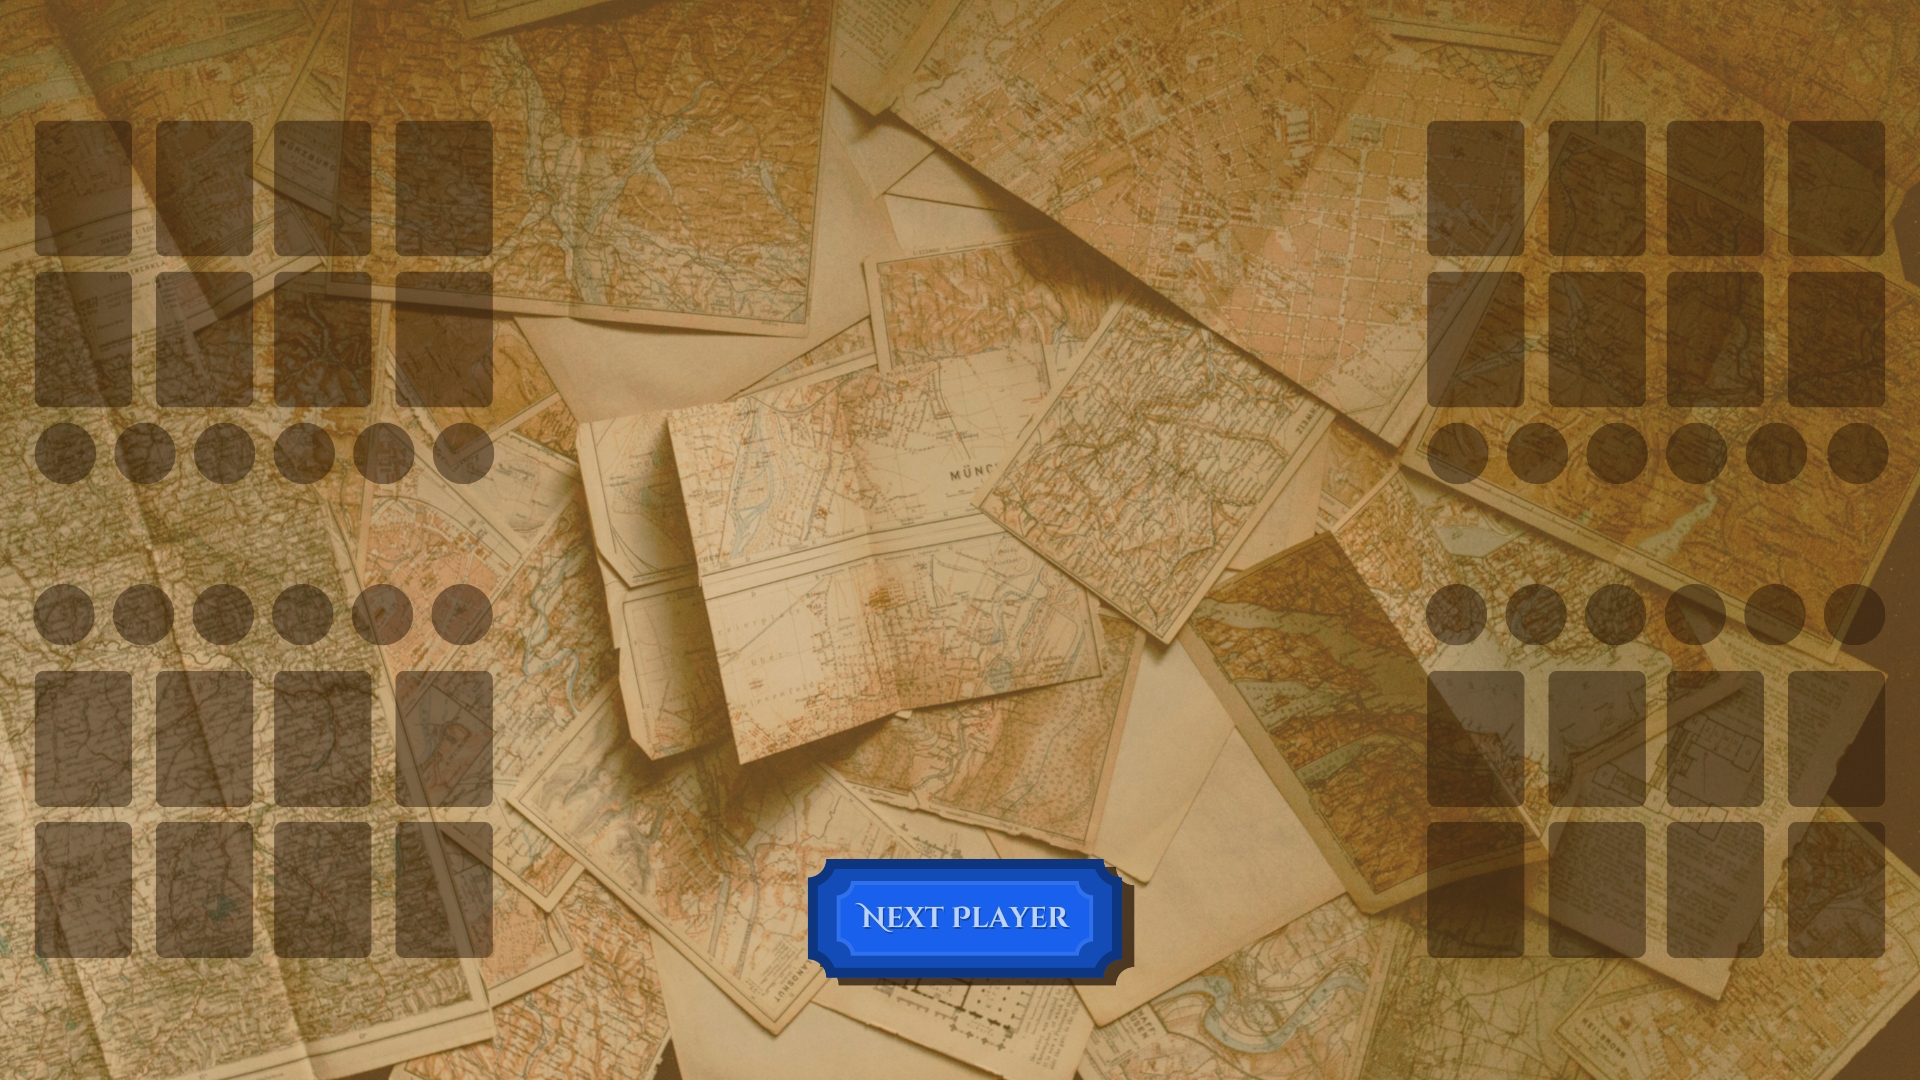
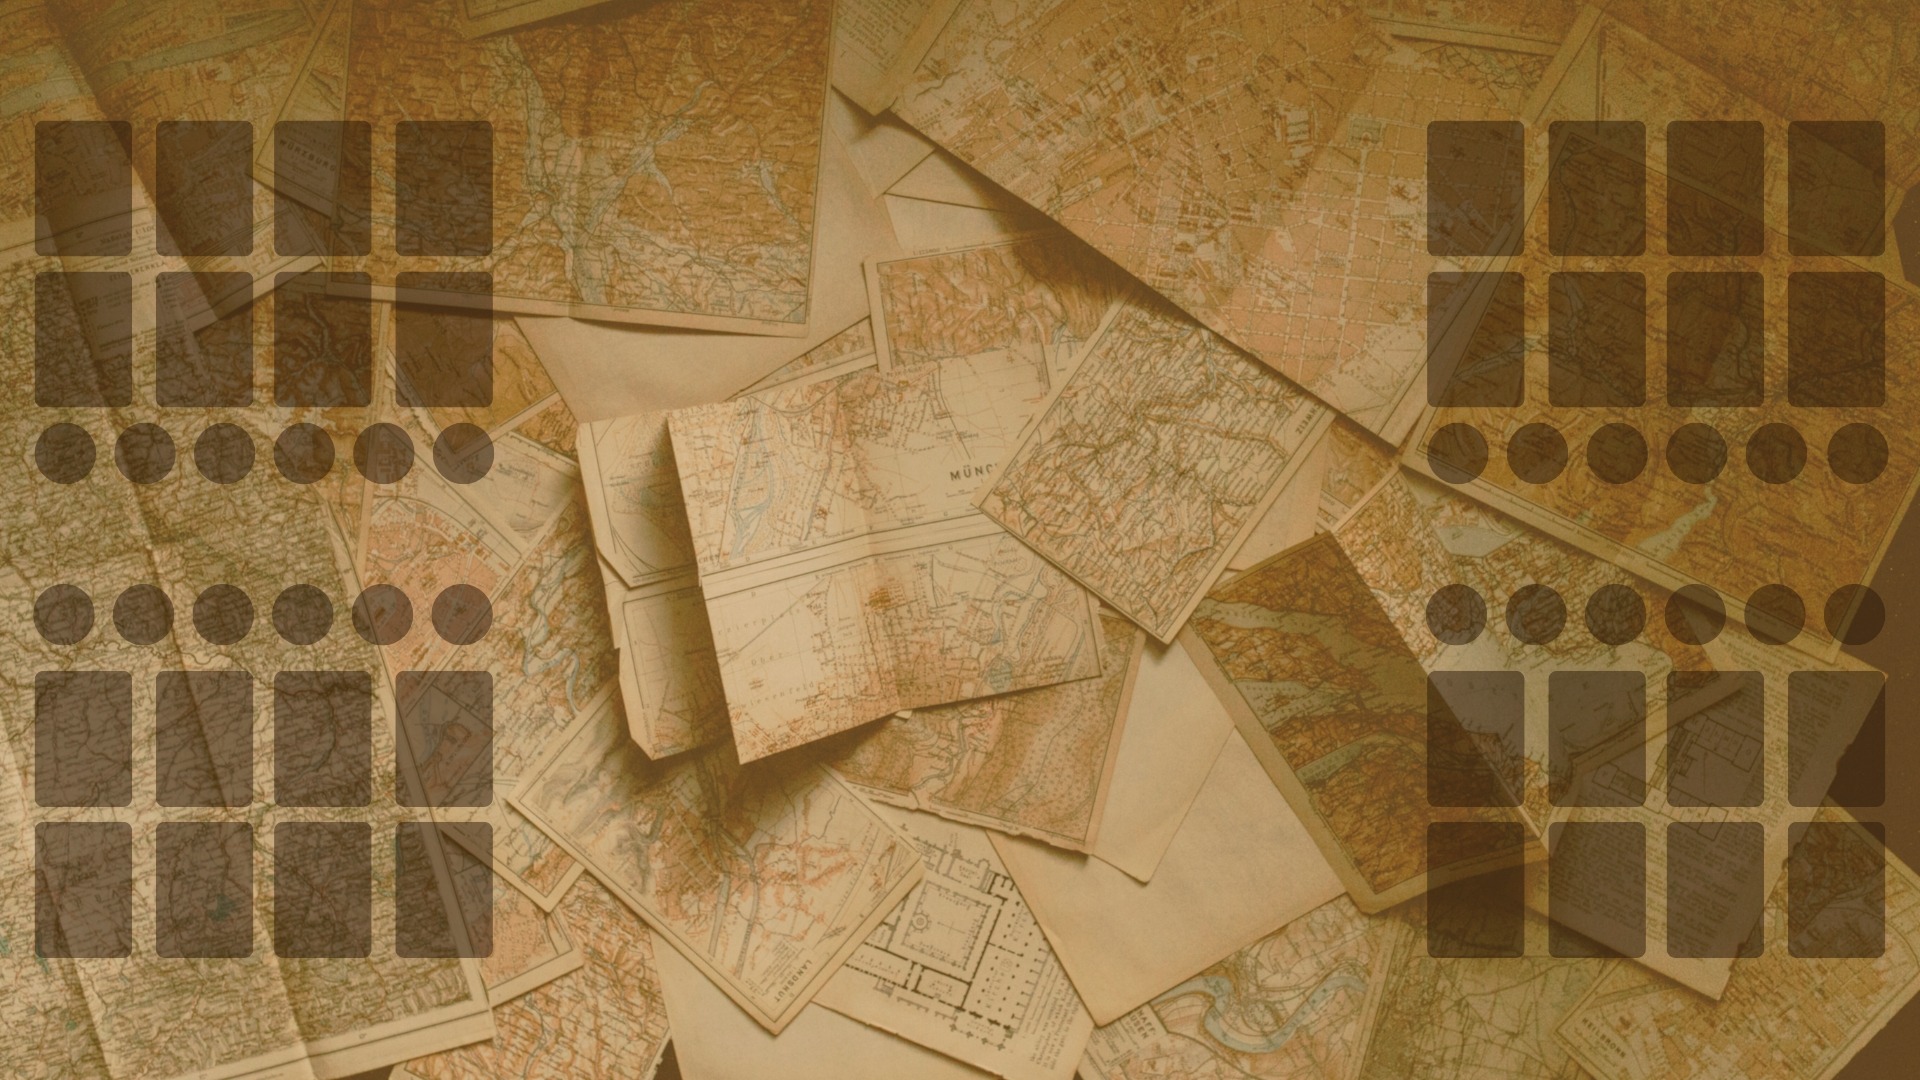
canges
added indicator when buying tokens and placeholders for new buttons

Changed region(s): [[0.4062, 0.7944, 0.5938, 0.9167]]

diff --git a/src/Splendorpanel.java b/src/Splendorpanel.java
@@ -21,6 +21,8 @@ public class Splendorpanel extends JPanel implements MouseListener{
     private int tokenWidth;
     private int tokenHeight;
     private int fontSize;
+    private int endButtonWidth;
+    private int endButtonHeight;
     //private String tok1, tok2, tok3; //tokens players click on?
     private HashMap<String,Integer> heldTokens; //three tokens held by current player when interacted with
     private Card heldCard;
@@ -32,6 +34,7 @@ public class Splendorpanel extends JPanel implements MouseListener{
     private String[] colors;
     private ArrayList <BufferedImage> tokenImgs;
     private boolean isHoldingCard;
+    private boolean isIllegal;
     private boolean showAllCards;
     private boolean showReservedCards;
     private ArrayList <Card> temp;
@@ -54,7 +57,7 @@ public class Splendorpanel extends JPanel implements MouseListener{
         showReservedCards = false;
         try {
             //bkg = ImageIO.read(new File("bkg.png"));
-            bkg = ImageIO.read(Splendorpanel.class.getResource("/images/gamebkg.jpg"));
+            bkg = ImageIO.read(Splendorpanel.class.getResource("/Splendor2024/images/gamebkg.jpg"));
             endBkg = ImageIO.read(Splendorpanel.class.getResource("/images/gameEndButtonScreen.jpg"));
             popUp = ImageIO.read(Splendorpanel.class.getResource("/images/shelvedCardsPopUp.png"));
             reservedPopUp = ImageIO.read(Splendorpanel.class.getResource("/images/reservedPopUp.png"));
@@ -97,12 +100,14 @@ public class Splendorpanel extends JPanel implements MouseListener{
         tokenWidth = width / 32;
         tokenHeight = height / 16;
         fontSize = width / 130 + height / 65;
+        endButtonHeight = height / 5 - height / 10;
+        endButtonWidth = width / 10;
 
         System.out.println(width + ", " + height + " this is width and height");
-        if(!logic.canGetTokens(heldTokens)){ //if more than 10 tokens, if more than 3 tokens drawn, or if more than two of the same color
-            heldTokens.clear(); //clear temporary hand
-            drawError(g); //draw error and make players remove or redraw tokens
-        }
+        //if(!logic.canGetTokens(heldTokens)){ //if more than 10 tokens, if more than 3 tokens drawn, or if more than two of the same color
+           // heldTokens.clear(); //clear temporary hand
+           ///drawError(g); //draw error and make players remove or redraw tokens
+      //  }
 
         //need to test locations
         drawSetUp(g); //background and text
@@ -116,7 +121,7 @@ public class Splendorpanel extends JPanel implements MouseListener{
             int x = 384;
             int y = 177;
             g.drawImage(popUp, 341, 139, 1239, 751, null);
-            for(int i = 0; i<temp.size(); i++){
+           for(int i = 0; i<temp.size(); i++){
                 g.drawImage(temp.get(i).getCardFront(), x, y, 206, 313, null);
                 x+=237;
                 if(i==5){
@@ -135,7 +140,15 @@ public class Splendorpanel extends JPanel implements MouseListener{
             }
         }
 
-        g.drawString("A", width / 2 , height - height / 10 );
+        g.drawRect((width / 2 - width / 20), (height - height / 6) , endButtonWidth, endButtonHeight);
+        g.fillRect((width / 2 - width / 20), (height - height / 6) , endButtonWidth, endButtonHeight);
+
+        if(isHoldingCard){
+            g.setColor(new Color(255, 255, 255));
+            g.drawRect((width / 2 + width / 15 ), (height - height / 6) , endButtonWidth, endButtonHeight);
+            g.fillRect((width / 2 + width / 15 ), (height - height / 6) , endButtonWidth, endButtonHeight);
+            g.setColor(new Color(0,0,0));
+        }
         if(isHoldingCard)
             g.drawString("holding card!",width / 2 + width / 3, height / 4);
         if(logic.isItLastTurn())
@@ -216,6 +229,10 @@ public class Splendorpanel extends JPanel implements MouseListener{
                 g.drawImage(tokenImgs.get(i), width / 2 + width / 7 + width / 150, y, tokenWidth, tokenHeight, null);
                 g.setFont(new Font("Times New Roman", Font.PLAIN, fontSize)); 
                 g.drawString("" + logic.getTokens().get(colors[i]), width / 2 + width / 6 - width / 150, y); //number of tokens left
+
+                if(heldTokens.containsKey(colors[i])){
+                    g.drawString("" + heldTokens.get(colors[i]), width / 2 + width / 5 - width / 100, y + y/ 100); //tokens selected
+                }
             }
             y+=height / 12;
         }
@@ -344,14 +361,18 @@ public class Splendorpanel extends JPanel implements MouseListener{
             if(mouseX>= tokensX && mouseX<= tokensX + d && mouseY>= tokensY && mouseY<= tokensY+d ){ //clicking each token
                 if(heldTokens.containsKey(colors[i])){
                     heldTokens.replace(colors[i], heldTokens.get(colors[i]), heldTokens.get(colors[i]) +1 );
+                    System.out.println("TOKEN HIT!");
+                    repaint();
                 } else {
                     heldTokens.put(colors[i], 1);
+                    System.out.println("TOKEN HIT!");
+                    repaint();
                 }
             }
             tokensY += height / 12;
         }
 
-        //if you Click a card in the token matrix
+        //if you Click a card in the card matrix
         for(int i = 0; i<3; i++){ 
             for(int j = 0; j<4; j++){
                 
@@ -366,20 +387,9 @@ public class Splendorpanel extends JPanel implements MouseListener{
             cardY+= height / 7 + height / 150; 
         }
 
-        if(logic.showEndButton() && mouseX >= 587 && mouseX <= 914 && mouseY >= 867 && mouseY <= 993){ //switch player button on end button screen //!!!!!!!!!NOT CENTERED YET!!!!!!!!!!
-            System.out.println("hit switch player button");
-            logic.switchPlayer();
-        }
-
-        if(logic.showEndButton() && mouseX >= 808 && mouseX <= 1134 && mouseY >= 859 && mouseY <= 985){ //switch player button on normal screen //!!!!!!!!!NOT CENTERED YET!!!!!!!!!!
-            System.out.println("hit switch player button");
-            logic.switchPlayer();
-        }
-
         //logic.endTurn();
 
-        //dont know where the end buttone cords are for now so just assume that this is the end button, this handels everyhting that will happen when the endButton is pressed
-        if( /*logic.showEndButton() && */mouseX >= (width / 2) - 100 && mouseX <= (width / 2) + 100 && mouseY >= (height - height / 10) - 50 && mouseY <= (height - height / 10) + 50){ //only allows to click endbutton if it is displayed
+        if( /*logic.showEndButton() && */mouseX >= (width / 2 - width / 20) && mouseX <= (width / 2 - width / 20) + endButtonWidth && mouseY >= (height - height / 6)  && mouseY <= (height - height / 6) + endButtonHeight){ //only allows to click endbutton if it is displayed
            System.out.println("hit endbutton");
            
            //if they have tokens
@@ -406,11 +416,16 @@ public class Splendorpanel extends JPanel implements MouseListener{
            isHoldingCard = false;
            heldCard = null;
            heldTokens = new HashMap<String, Integer>();
-           logic.endTurn();
+           //logic.endTurn();
            repaint();
 
            System.out.println("nothing done, skipping turn");
         }
+
+        if(isHoldingCard && mouseX >= (width / 2 + width / 15) && mouseX <= (width / 2 + width / 15) + endButtonWidth && mouseY >= (height - height / 6)  && mouseY <= (height - height / 6) + endButtonHeight){
+            //ADD RESERVING SYSTEM HERRE
+        }
+
     }
 
     @Override

diff --git a/src/Logic.java b/src/Logic.java
@@ -67,8 +67,6 @@ public class Logic {
         } else{
             currPlayer = 1;
         }
-        
-
     }
 
     //returns the entrie players arrayList
@@ -216,7 +214,7 @@ public class Logic {
         else if(tokenCount(thisTokens) == 2){
             Iterator<String> iter = thisTokens.keySet().iterator();
             String gemChecked = iter.next();
-            if(tokens.get(gemChecked) >= 4)
+            if(tokens.get(gemChecked) >= 4 && thisTokens.size() == 1)
                 return true;
         }
         else {
